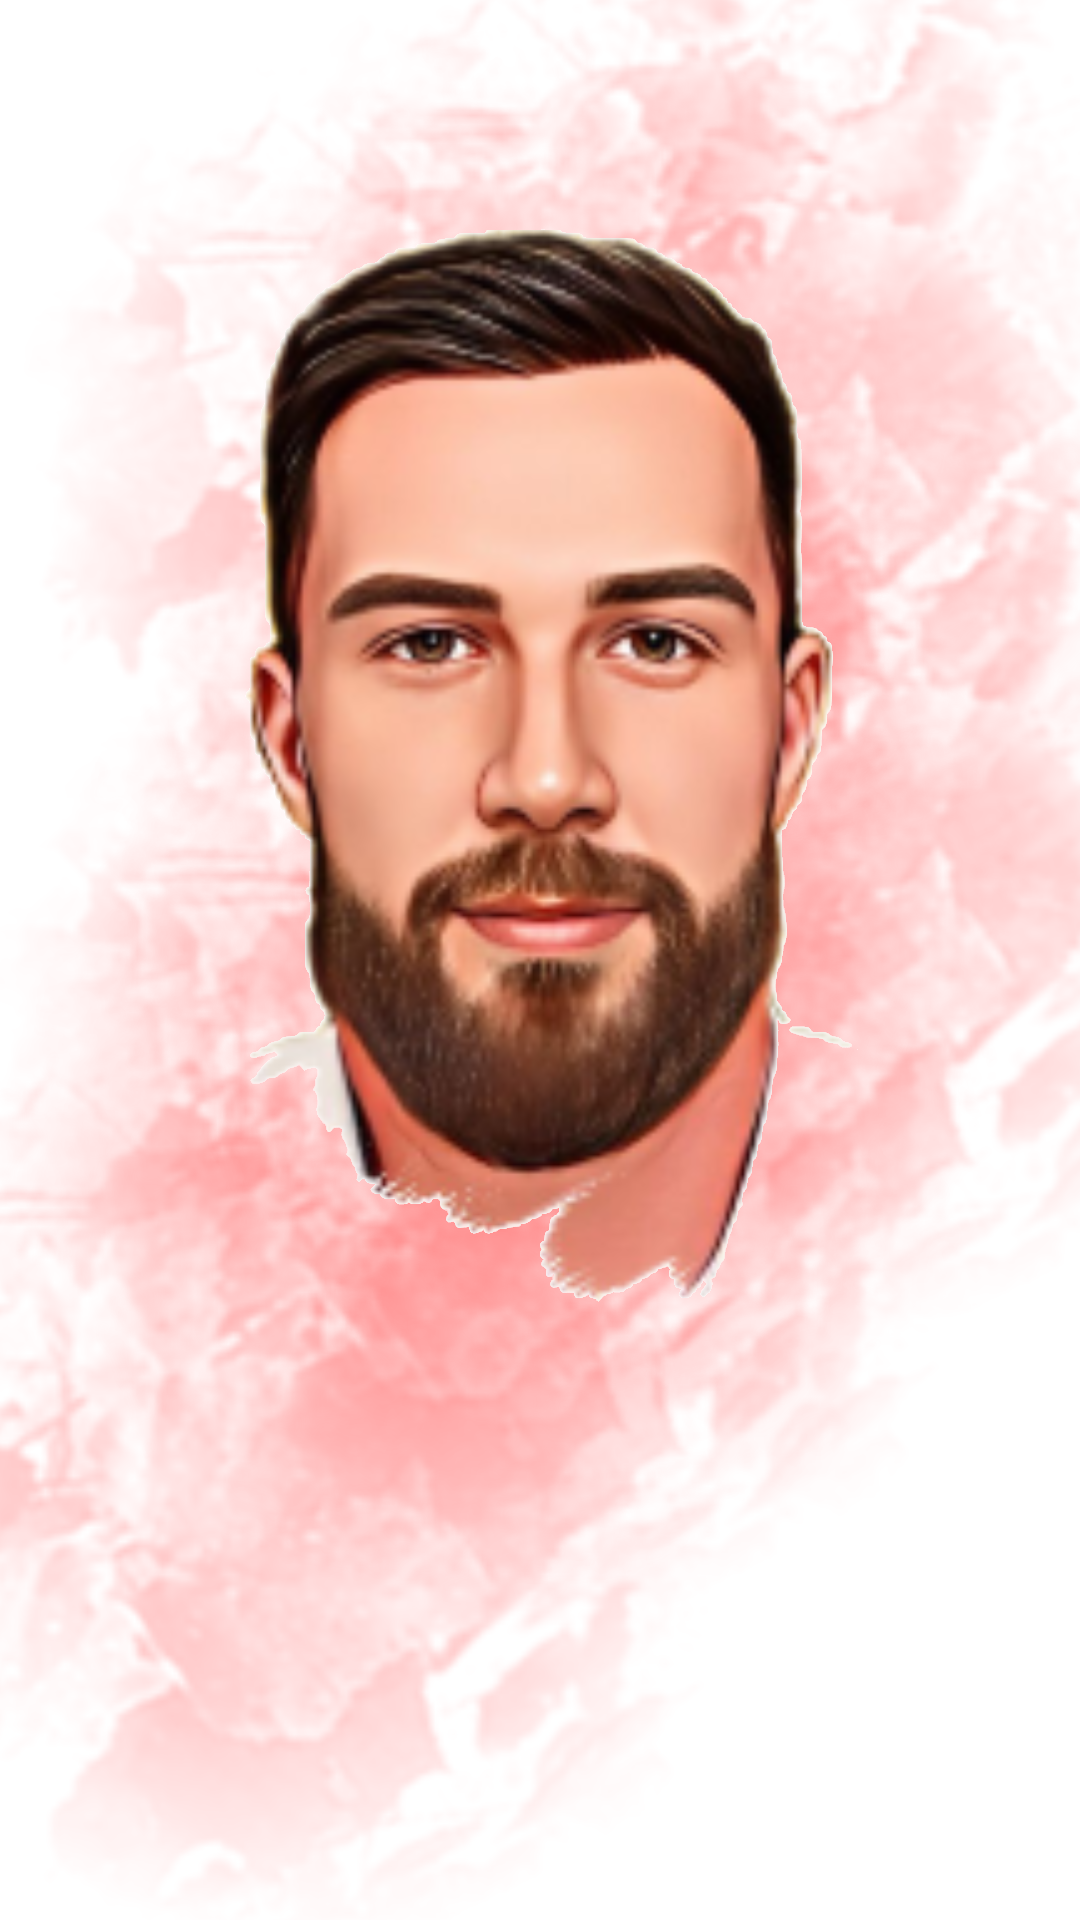
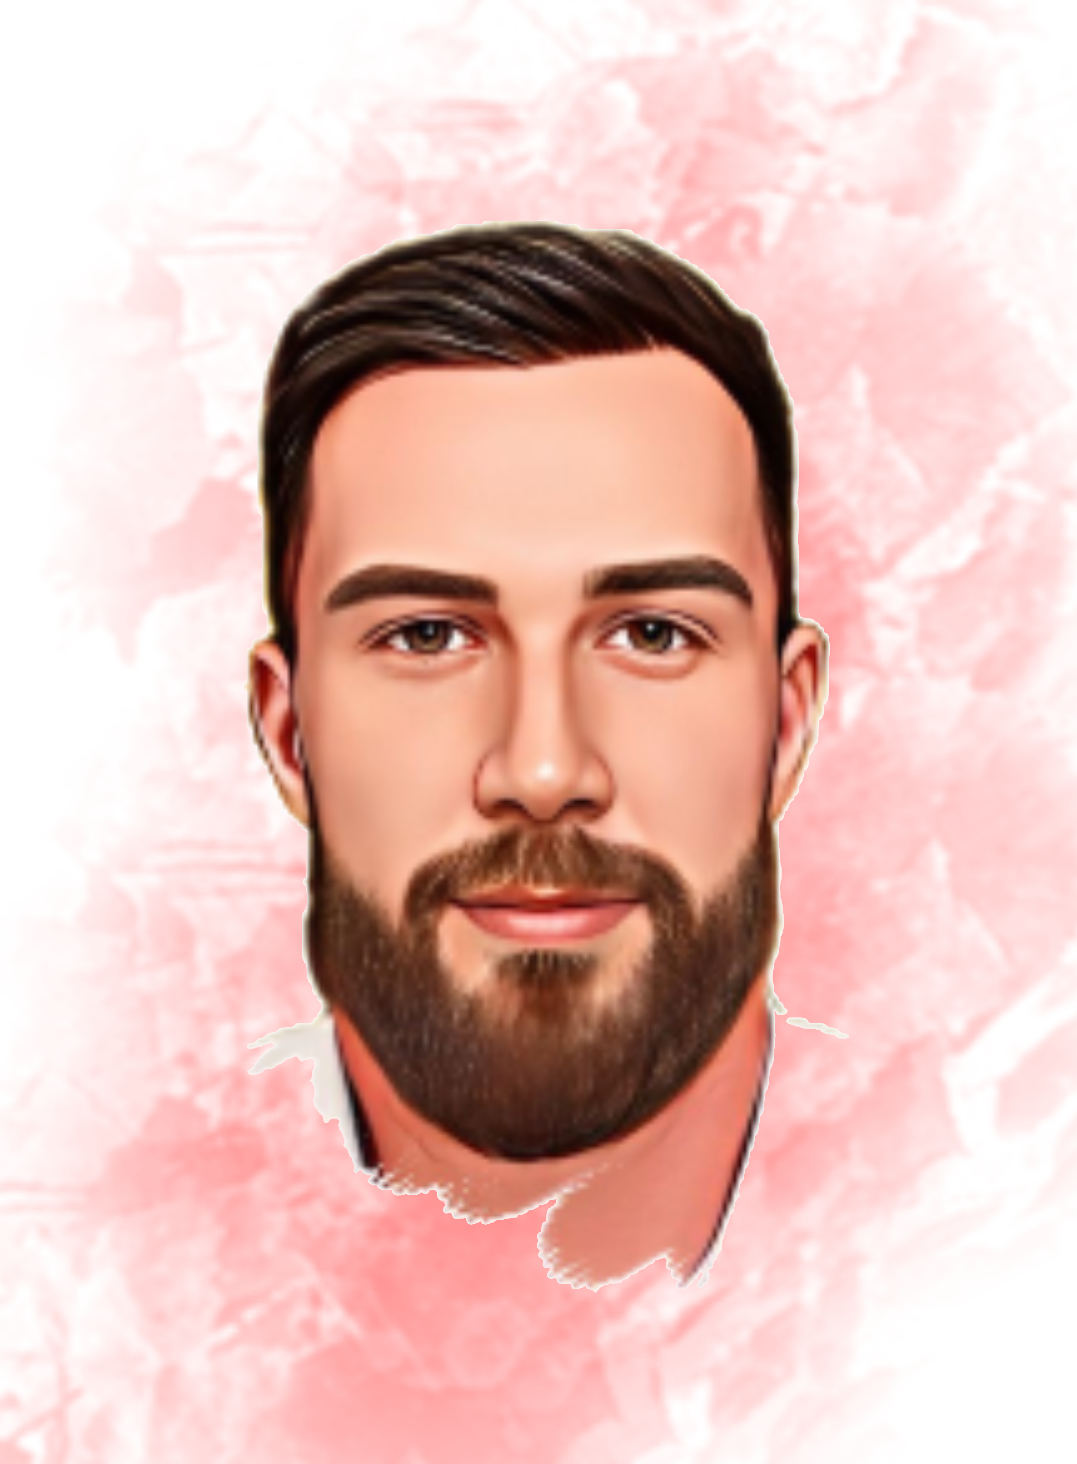
hero section

diff --git a/css/main.scss b/css/main.scss
@@ -82,13 +82,13 @@ body{
 }
 
 .hero{
-    display: grid;
-    padding: 2em 0 0 7em;
-    grid-template-columns: repeat(auto-fit, minmax(250px, 1fr));
-
+    padding: 2em 0 0 0;
+    margin: 0 6em 0 6em;
+   
     .container {
-        display: flex;
-        place-content: space-between;
+        display: grid;
+       // grid-template-columns: repeat(auto-fit, minmax(150px, 1fr));
+        grid-template-columns: 2fr 1fr;
     }
 
     .hi{
@@ -104,13 +104,14 @@ body{
         margin: 0;
         font-size: 4em;
     }
+    
     .right-col{
         display: flex;
-        align-items: center;
         justify-content: center;
+        align-items: center;
 
         .hero-img{
-            width: 20%;  
+            width: 50%;  
             }
     }
 

diff --git a/css/main.css b/css/main.css
@@ -69,13 +69,12 @@ body {
 }
 
 .hero {
-  display: grid;
-  padding: 2em 0 0 7em;
-  grid-template-columns: repeat(auto-fit, minmax(250px, 1fr));
+  padding: 2em 0 0 0;
+  margin: 0 6em 0 6em;
 }
 .hero .container {
-  display: flex;
-  place-content: space-between;
+  display: grid;
+  grid-template-columns: 2fr 1fr;
 }
 .hero .hi {
   color: white;
@@ -91,11 +90,11 @@ body {
 }
 .hero .right-col {
   display: flex;
-  align-items: center;
   justify-content: center;
+  align-items: center;
 }
 .hero .right-col .hero-img {
-  width: 20%;
+  width: 50%;
 }
 .hero .subhead {
   padding: 0;
